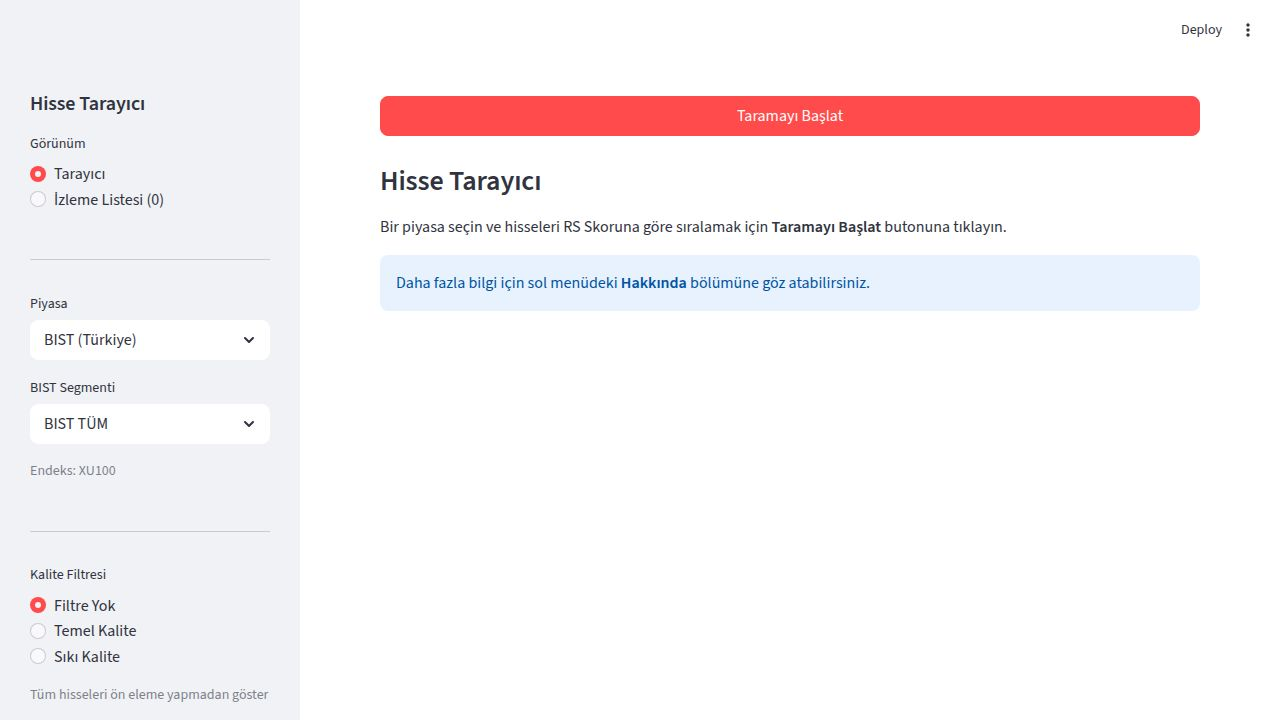
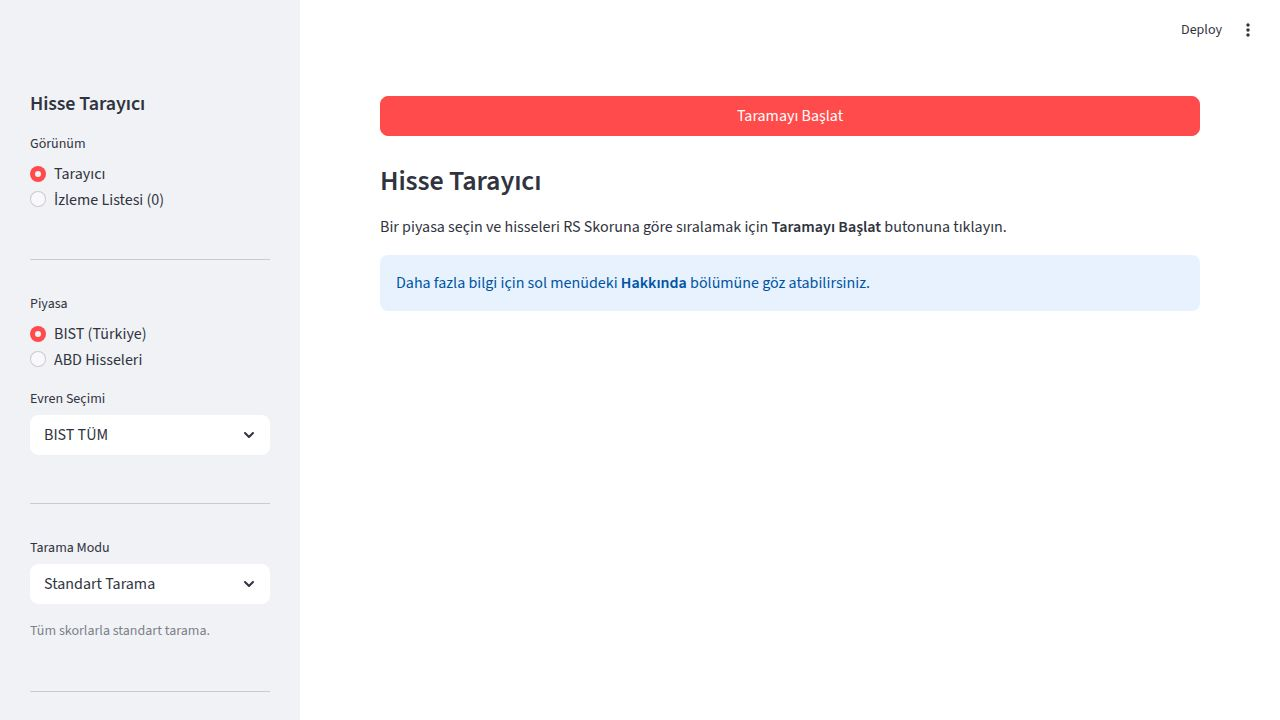
Refine the stock screener interface for improved usability and organization
Update app.py to refactor the sidebar layout, introducing new market and universe selection options, and modify config.py to include USA market data and segments.

Replit-Commit-Author: Agent
Replit-Commit-Session-Id: 43f3a8be-06ff-4a06-871a-70bb21206dd7
Replit-Commit-Checkpoint-Type: full_checkpoint
Replit-Commit-Event-Id: 7765b09d-62b6-477e-9182-f3daab10fbda
Replit-Commit-Screenshot-Url: https://storage.googleapis.com/screenshot-production-us-central1/a2a0e3c1-ee0a-4e1c-b27b-1a8c2466b530/43f3a8be-06ff-4a06-871a-70bb21206dd7/3XwZMh1
Replit-Helium-Checkpoint-Created: true

diff --git a/app.py b/app.py
@@ -17,6 +17,7 @@ from config import (
     TWELVE_DATA_API_KEY, BENCHMARK_INDEX,
     CACHE_TTL_MARKET_DATA, REQUIRED_FIELDS_FOR_SCORING,
     BIST100_TICKERS, BIST_SEGMENTS,
+    SP500_TICKERS, NASDAQ100_TICKERS, USA_SEGMENTS,
 )
 from data_model import validate_dataframe
 from data_fetcher import fetch_market_data, get_last_diagnostics
@@ -215,22 +216,27 @@ with st.sidebar:
 
     st.divider()
 
-    market = st.selectbox(
+    market = st.radio(
         "Piyasa",
         options=list(SUPPORTED_MARKETS.keys()),
         format_func=lambda x: SUPPORTED_MARKETS[x]["label"],
+        horizontal=True,
     )
 
     bist_segment = "BISTTUM"
+    usa_segment = "USA_ALL"
     if market == "BIST":
         bist_segment = st.selectbox(
-            "BIST Segmenti",
+            "Evren Seçimi",
             options=list(BIST_SEGMENTS.keys()),
             format_func=lambda x: BIST_SEGMENTS[x],
         )
-
-    benchmark = BENCHMARK_INDEX.get(market, "SPX")
-    st.caption(f"Endeks: {benchmark}")
+    else:
+        usa_segment = st.selectbox(
+            "Evren Seçimi",
+            options=list(USA_SEGMENTS.keys()),
+            format_func=lambda x: USA_SEGMENTS[x],
+        )
 
     st.divider()
 
@@ -240,9 +246,9 @@ with st.sidebar:
         "early_accumulation": "Erken Accumulation Yakalama",
     }
     SCAN_MODE_DESCRIPTIONS = {
-        "standard": "Mevcut RS, Teknik ve Kombine Skor ile standart tarama.",
-        "smart_money": "MFI > 55, OBV trend pozitif, endekse göre güçlü, hacim ortalamanın üstünde, teknik ve RS skoru yüksek hisseler.",
-        "early_accumulation": "MFI 50-65 arasında, OBV yükselişte, 52h zirvesine yakın, kısa vadede stabil, orta vadede pozitif hisseler.",
+        "standard": "Tüm skorlarla standart tarama.",
+        "smart_money": "Akıllı para girişi tespit edilen hisseler.",
+        "early_accumulation": "Erken birikim sinyali veren hisseler.",
     }
     scan_mode = st.selectbox(
         "Tarama Modu",
@@ -254,17 +260,16 @@ with st.sidebar:
 
     st.divider()
 
+    _quality_labels = {"none": "Kapalı", "basic": "Temel", "strict": "Sıkı"}
     preset_options = get_preset_names()
-    preset_labels = {k: get_preset_info(k)["label"] for k in preset_options}
     selected_preset = st.radio(
-        "Kalite Filtresi",
+        "Temel Kalite Seviyesi",
         options=preset_options,
-        format_func=lambda x: preset_labels[x],
+        format_func=lambda x: _quality_labels.get(x, x),
         index=0,
+        horizontal=True,
     )
     preset_info = get_preset_info(selected_preset)
-    st.caption(preset_info["description"])
-
     if selected_preset != "none" and preset_info["rules"]:
         with st.expander("Filtre kuralları", expanded=False):
             for rule_key, threshold in preset_info["rules"].items():
@@ -272,35 +277,38 @@ with st.sidebar:
 
     st.divider()
 
+    sort_options = {
+        "rs_score": "RS Score",
+        "technical_score": "Technical Score",
+        "combined_score": "Combined Score",
+    }
+    sort_by = st.selectbox(
+        "Sıralama Türü",
+        options=list(sort_options.keys()),
+        format_func=lambda x: sort_options[x],
+        index=2,
+    )
+
     min_avg_volume = st.number_input(
-        "Min Ort Hacim (20g)",
+        "Minimum Hacim",
         min_value=0,
         value=0,
         step=100000,
-        help="Devre dışı bırakmak için 0 girin",
+        help="Devre dışı bırakmak için 0",
     )
     min_avg_volume = min_avg_volume if min_avg_volume > 0 else None
 
-    top_n = st.number_input(
-        "Gösterilecek Sonuç",
-        min_value=1,
-        max_value=100,
-        value=DEFAULT_TOP_N,
-    )
-
-    sort_options = {"rs_score": "RS Skoruna Göre", "combined_score": "Kombine Skora Göre"}
-    sort_by = st.selectbox(
-        "Sıralama",
-        options=list(sort_options.keys()),
-        format_func=lambda x: sort_options[x],
-        index=0,
+    top_n_options = [10, 20, 50, 100]
+    top_n = st.selectbox(
+        "Sonuç Sayısı",
+        options=top_n_options,
+        index=1,
     )
 
     st.divider()
     api_status = "Canlı Veri" if TWELVE_DATA_API_KEY else "Demo Veri"
     st.caption(f"Veri: {api_status}")
 
-    st.divider()
     with st.expander("Hakkında", expanded=False):
         st.markdown(
             """
@@ -406,6 +414,12 @@ elif page == "Screener":
                 elif bist_segment == "BIST100_DISI":
                     raw_data = raw_data[~raw_data["ticker"].isin(BIST100_TICKERS)].reset_index(drop=True)
 
+            if market == "USA" and usa_segment != "USA_ALL" and "ticker" in raw_data.columns:
+                if usa_segment == "SP500":
+                    raw_data = raw_data[raw_data["ticker"].isin(SP500_TICKERS)].reset_index(drop=True)
+                elif usa_segment == "NASDAQ100":
+                    raw_data = raw_data[raw_data["ticker"].isin(NASDAQ100_TICKERS)].reset_index(drop=True)
+
             validation = validate_dataframe(raw_data)
             if not validation["valid"]:
                 st.warning(f"Veri kalitesi uyarısı: eksik sütunlar {validation['missing_columns']}")
@@ -467,6 +481,7 @@ elif page == "Screener":
             st.session_state["screener_market"] = market
             st.session_state["screener_preset"] = selected_preset
             st.session_state["screener_bist_segment"] = bist_segment if market == "BIST" else None
+            st.session_state["screener_usa_segment"] = usa_segment if market == "USA" else None
             st.session_state["screener_sort_by"] = effective_sort
             st.session_state["screener_scan_mode"] = scan_mode
 
@@ -482,8 +497,11 @@ elif page == "Screener":
         stored_preset = st.session_state["screener_preset"]
 
         stored_segment = st.session_state.get("screener_bist_segment")
+        stored_usa_segment = st.session_state.get("screener_usa_segment")
         if stored_segment and stored_segment in BIST_SEGMENTS:
-            st.caption(f"Segment: **{BIST_SEGMENTS[stored_segment]}**")
+            st.caption(f"Evren: **{BIST_SEGMENTS[stored_segment]}**")
+        elif stored_usa_segment and stored_usa_segment in USA_SEGMENTS:
+            st.caption(f"Evren: **{USA_SEGMENTS[stored_usa_segment]}**")
 
         stored_scan_mode = st.session_state.get("screener_scan_mode", "standard")
         if stored_scan_mode != "standard":

diff --git a/config.py b/config.py
@@ -58,6 +58,24 @@ BIST_SEGMENTS = {
     "BIST100_DISI": "BIST 100 Dışı",
 }
 
+SP500_TICKERS = [
+    "AAPL", "MSFT", "GOOGL", "AMZN", "NVDA",
+    "META", "TSLA", "BRK.B", "JPM", "V",
+    "UNH", "XOM", "JNJ", "PG", "MA",
+    "HD", "AVGO", "MRK", "COST", "PEP",
+]
+
+NASDAQ100_TICKERS = [
+    "AAPL", "MSFT", "GOOGL", "AMZN", "NVDA",
+    "META", "TSLA", "AVGO", "COST", "PEP",
+]
+
+USA_SEGMENTS = {
+    "USA_ALL": "Tüm USA",
+    "SP500": "S&P 500",
+    "NASDAQ100": "NASDAQ 100",
+}
+
 SCORING_WEIGHTS = {
     "financial_strength": 0.25,
     "growth": 0.20,